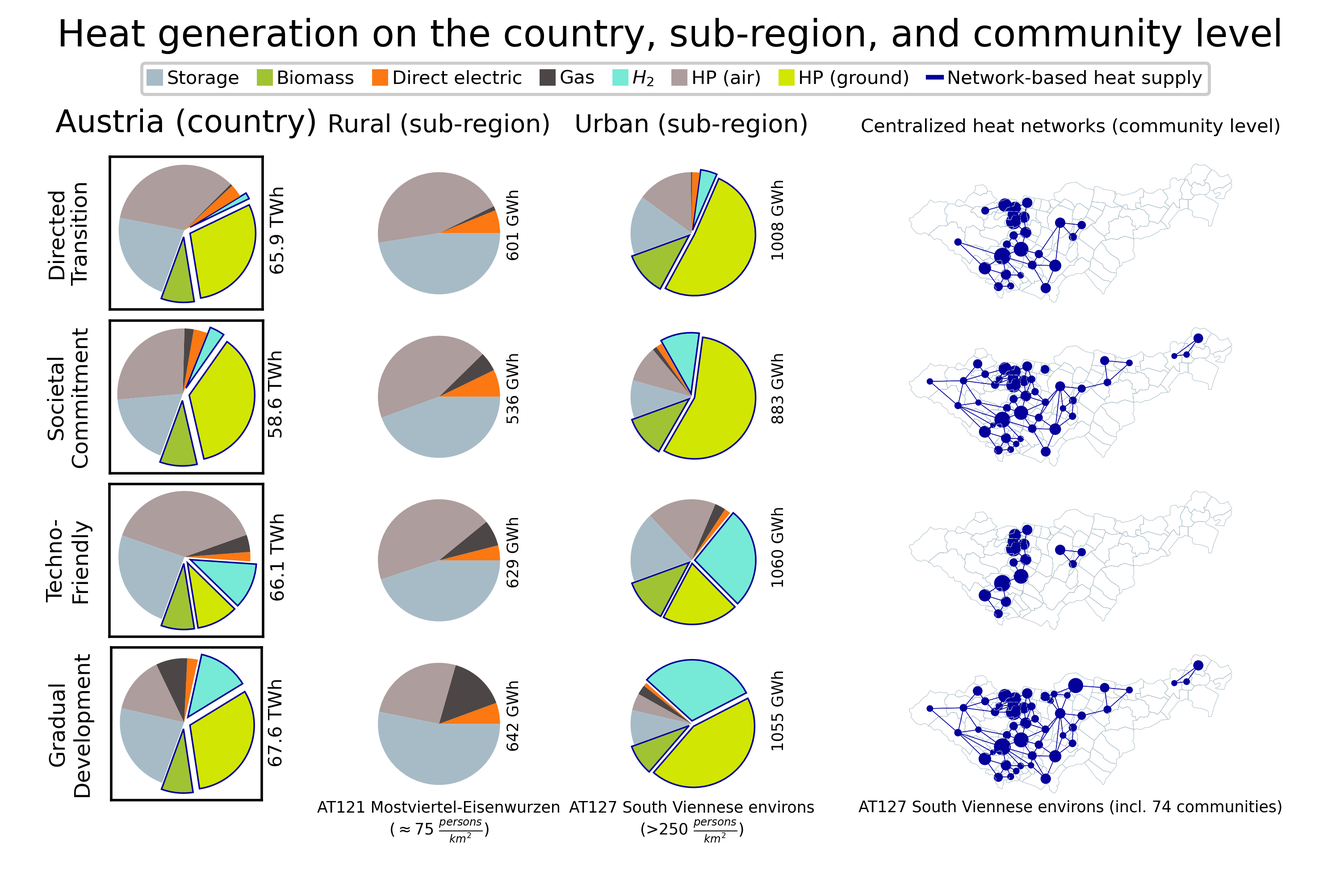
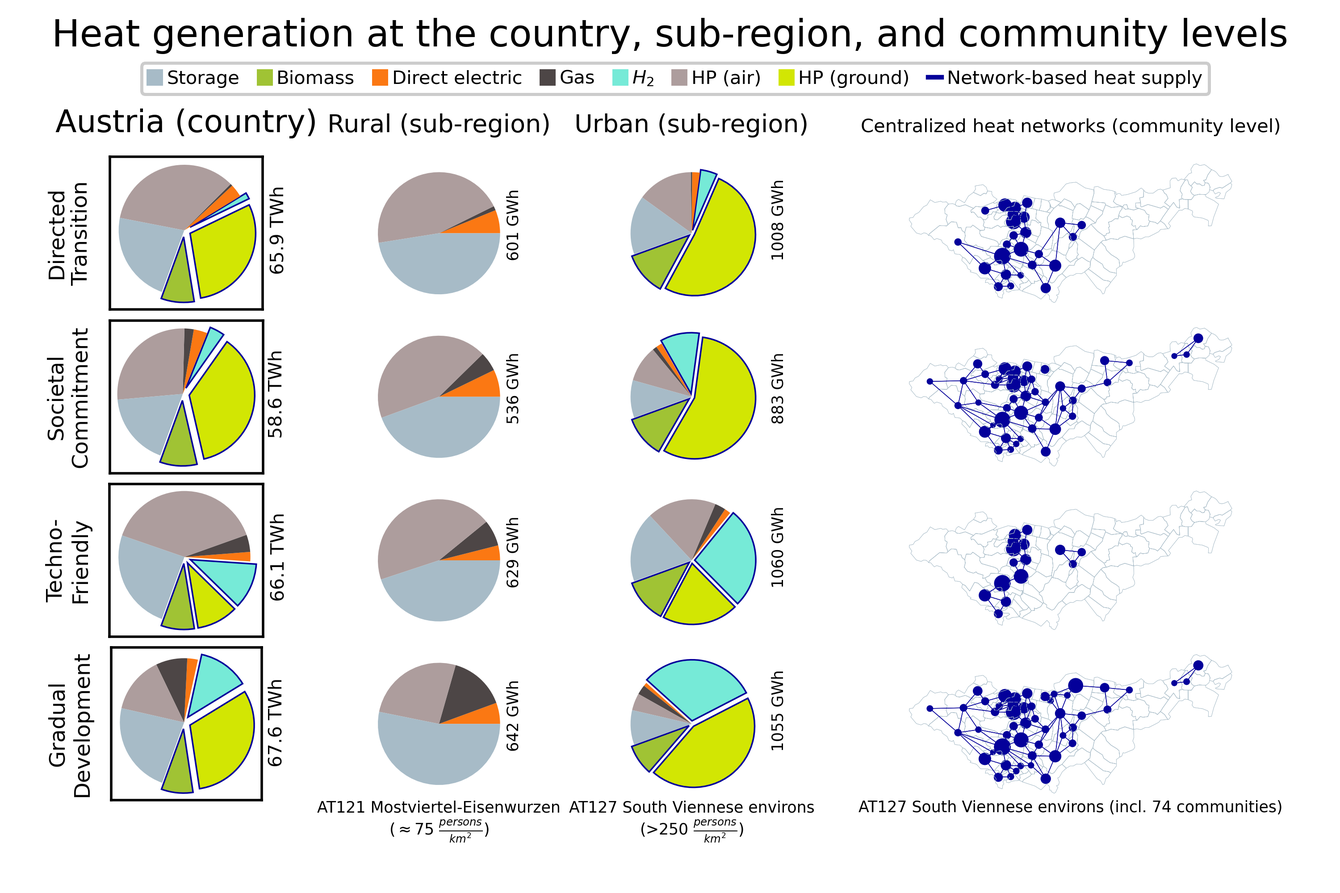
Update results section

Changed region(s): [[0.031, 0.0, 0.961, 0.062]]

diff --git a/Manuscript/4_Results.tex b/Manuscript/4_Results.tex
@@ -1,19 +1,19 @@
 \section{Results and discussion}\label{results}
-This section presents the results of the Austrian case study. Four different storylines are investigated, covering a wide range of possible future developments of the Austrian energy system in the context of European deep decarbonization. Section \ref{res:1} shows the heat generation mix supplying the heat demand (residential and commercial) on the country level. In Section \ref{res:2}, the obtained heat generation mix is described on more granular geographical scale, sub-regional and community level. Potentials of centralized heat network are presented further in Section \ref{res:3}. Section \ref{res:4} shows the centralized heat networks on the community level. Finally, Section \ref{res:5} compares the projected centralized heat networks in 2050 with today's networks based on heat density.
+This section presents the results of the Austrian case study. Four different storylines are investigated, covering a wide range of possible future developments of the Austrian energy system in the context of European deep decarbonization. Section \ref{res:1} shows the heat generation mix supplying the heat demand (residential and commercial) at the country level. Section \ref{res:2} describes the heat generation mix obtained on a more granular geographical scale, at sub-regional and community levels. Potentials of a centralized heat network are presented further in section \ref{res:3}. Section \ref{res:4} shows the centralized heat networks at the community level. Finally, section \ref{res:5} compares the projected centralized heat networks in 2050 with today's networks, based on heat density.
 
 \subsection{Heat supply of the Austrian residential and commercial sector in 2050: four different decarbonization scenarios obtained from the H2020 project openENTRANCE}\label{res:1}
-This section presents the heat generation mix covering the Austrian residential and commercial heat demand in 2050 for four different storylines, which have been developed within the H2020 openENTRANCE project. They are named as follows: \textit{Directed Transition}, \textit{Societal Commitment}, \textit{Techno-Friendly}, and \textit{Gradual Development}. Within each of them, specific fundamental development of the energy systems is described while aiming for a sustainable transition of the provision of energy services. The first three storylines consider the achievement of the \SI{1.5}{\degreeCelsius} global warming climate target. The latter storyline (\textit{Gradual Development}) can be interpreted as a more conservative storyline aiming for the less ambitious \SI{2.0}{\degreeCelsius} climate target. Below, the storylines are briefly described before the quantitative results on the country level are presented. For a more detailed description of the storylines, it is referred to \cite{auer2020quantitative} and \cite{auer2020development}. Further informations also are available on the website of the project \footnote{\url{https://openentrance.eu/}} and GitHub\footnote{\url{https://github.com/openENTRANCE}}.\vspace{0.3cm}
+This section presents the heat generation mix covering the Austrian residential and commercial heat demand in 2050 for four different storylines, which have been developed within the H2020 openENTRANCE project. They are named as follows: \textit{Directed Transition}, \textit{Societal Commitment}, \textit{Techno-Friendly}, and \textit{Gradual Development}. Within each of them, specific fundamental development of the energy systems is described while aiming for a sustainable transition of the provision of energy services. The first three storylines consider the achievement of the \SI{1.5}{\degreeCelsius} global warming climate target. The last storyline (\textit{Gradual Development}) can be interpreted as a more conservative storyline, aiming for the less ambitious \SI{2.0}{\degreeCelsius} climate target. Below, the storylines are described briefly, before the quantitative results at the country level are presented. For a more detailed description of the storylines, refer to \cite{auer2020quantitative} and \cite{auer2020development}. Further information is also available on the website of the project \footnote{\url{https://openentrance.eu/}} and GitHub\footnote{\url{https://github.com/openENTRANCE}}.\vspace{0.3cm}
 
-The underlying concept of the four storylines is a three-dimensional space spanned by the following parameters: technology, policy, and society. Each storyline describes a specific pathway to reach a decarbonized energy system taking into account a pronounced contribution of two dimensions. Regarding the third dimension, a development is assumed that leads to no significant contribution to the decarbonization of the energy system. 
+The underlying concept of the four storylines is a three-dimensional space consisting of the following parameters: technology, policy, and society. Each storyline describes a specific pathway to reach a decarbonized energy system taking into account a pronounced contribution of two dimensions. Regarding the third dimension, a development is assumed that leads to no significant contribution to the decarbonization of the energy system. 
 
 \begin{itemize}
-	\item \textit{Directed Transition} looks at a sustainable provision of energy services through strong policy incentives. This bundle of actions becomes necessary because neither the markets nor society adequately pushes sustainable energy technologies.
-	\item \textit{Societal Commitment} achieves deep decarbonization of the energy system by a strong societal acceptance of the sustainable energy transition. Thereby, decentralized renewable energy technologies together with policy incentives lead to a sustainable supply of energy service needs. Parallel, no fundamental breakthroughs of new clean technologies are within sight.
-	\item \textit{Techno-Friendly} describes a development of the energy system where a significant market-driven breakthrough of renewable energy technologies gives rise to the decarbonization of energy service supply. Alongside, society acceptance supports the penetration of clean energy technologies and the sustainable transition.
-	\item \textit{Gradual Development} differs from the other storylines as on the one hand, this storyline only aims for the less ambitious \SI{2.0}{\degreeCelsius} climate target, and on the other hand, a little of each possible sustainable development of the energy system is described here. While all three dimensions contribute to decarbonization, they do not push it sufficiently and result in a more conservative storyline than the others.
+	\item \textit{Directed Transition} looks at a sustainable provision of energy services through strong policy incentives. This bundle of actions becomes necessary because neither the markets nor the society adequately pushes sustainable energy technologies.
+	\item \textit{Societal Commitment} achieves deep decarbonization of the energy system by a strong societal acceptance of the sustainable energy transition. Thereby, decentralized renewable energy technologies together with policy incentives lead to a sustainable supply of energy service needs. In parallel, no fundamental breakthroughs of new clean technologies are within sight.
+	\item \textit{Techno-Friendly} describes a development of the energy system where a significant market-driven breakthrough of renewable energy technologies gives rise to the decarbonization of energy service supply. Additionally, society acceptance supports the penetration of clean energy technologies and the sustainable transition.
+	\item \textit{Gradual Development} differs from the other storylines as on the one hand, this storyline aims only for the less ambitious \SI{2.0}{\degreeCelsius} climate target, and on the other hand, a little of each possible sustainable development initiative of the energy system is described here. Although the other three dimensions contribute to decarbonization, they do not push it sufficiently and result in a more conservative storyline than the others.
 \end{itemize}
 
-Table \ref{tab:1} shows the heat generation by technology/source in Austria in 2050 for the four different storylines. These values were obtained in course of the H2020 project openENTRANCE and are the modeling results calculated using the open-source model GENeSYS-MODv2.0 \cite{burandt2018genesys}. According to the underlying assumptions in the storylines, the heat generation of the different sources/technologies vary in some cases significantly (e.g., hydrogen-based heat generation in \textit{Directed Transition} and \textit{Gradual Development} (\SI{7.62}{TWh}) or Heat pump (ground) generation in \textit{Techno-Friendly} and \textit{Societal Commitment} (\SI{14.78}{TWh})). The gray-colored column $\Sigma$ presents the total of heat generation using centralized heat networks, which varies between \SI{19.49}{} (\textit{Techno-Friendly}) and \SI{35.23}{TWh} (\textit{Gradual Development}).
+Table \ref{tab:1} shows the heat generation by technology/source in Austria in 2050 for the four different storylines. These values were obtained during the course of the H2020 project openENTRANCE and are the modeling results calculated using the open-source model GENeSYS-MODv2.0 \cite{burandt2018genesys}. According to the underlying assumptions in the storylines, the heat generation of the different sources/technologies varies significantly in some cases (e.g., hydrogen-based heat generation in \textit{Directed Transition} and \textit{Gradual Development} (\SI{7.62}{TWh}) or heat pump (ground) generation in \textit{Techno-Friendly} and \textit{Societal Commitment} (\SI{14.78}{TWh})). The gray-colored column $\Sigma$ presents the total heat generation using centralized heat networks, which varies between \SI{19.49}{TWh} (\textit{Techno-Friendly}) and \SI{35.23}{TWh} (\textit{Gradual Development}).
 
 \newcolumntype{R}[2]{%
 	>{\adjustbox{angle=#1,lap=\width-(#2)}\bgroup}%
@@ -38,12 +38,12 @@ Table \ref{tab:1} shows the heat generation by technology/source in Austria in 2
 		& Gradual Development & 5.37 & 1.81 & 5.35 & 9.68 & 21.21 & 15.57  & 8.65 & \cellcolor{Gray}35.23\\
 		\bottomrule
 	\end{tabular}}
-	\caption{Heat generation by source in TWh supplying the residential and commercial heat demand in Austria 2050 for the different scenarios. Values obtained from the H2020 project openENTRANCE and GENeSYS-MOD.}
+	\caption{Heat generation by source in TWh, supplying residential and commercial heat demands in Austria 2050 for the different scenarios. Values obtained from the H2020 project openENTRANCE and GENeSYS-MOD.}
 	\label{tab:1}
 \end{table}
 
 \subsection{Heat technology generation in 2050 on different spatial granularities}\label{res:2}
-Figure \ref{fig:res1} shows the heat generation per technology/source on different spatial granularities: the country (NUTS0), sub-region (NUTS3) and community (LAU) level (from left to right). The level of spatial details increases from the left to the right. In the middle, the residential and commercial heat supply in a representative rural and urban sub-region, respectively, is presented. The rural sub-region \textit{Mostviertel-Eisenwurzen} (NUTS3 code AT121) shows high shares of heat pumps (air sourced) and small-scale heat storage systems. In addition, synthetic gas and direct electric heating systems supply the heat demand. The urban sub-region \textit{South Viennese environs} (AT127) is mainly supplied by ground-sourced heat pumps, biomass, and hydrogen. Air-sourced heat pumps and again heat storage cover the remaining demand. Throughout the pie charts within the figure, shares of heat generation using centralized heat networks are indicated using blue-colored edges. On the very right, an example of the resulting centralized heat network on the community level for the four different scenarios is presented. Within the four subfigures presenting centralized heat networks (each for one storyline), the size of the points represents the amount of heat demand using centralized supply in a community. The comparably high heat demand in the \textit{Gradual Development} scenario results in an extensive centralized heat network infrastructure (see lower right subfigure in Figure \ref{fig:res1}). The other three centralized heat networks are characterized by fewer (less supplied small sub-regions) and smaller points (less supplied heat demand by the centralized heat network). Figure \ref{fig:res-comp} compares the heat generation by source between $2020$ (today) and $2050$ for the four different scenarios. The height of the bars shows the absolute differences by source between both years, whereby a negative difference indicates less heat generation by this source in 2050 of the \textit{Societal Commitment} scenario. This scenario is more prominently presented since this is the scenario with the lowest total heat demand (\SI{-18.15}{TWh}) compared to the others. In addition, the scenario with the lowest and highest difference respectively is marked for each heat source and the total demand. For instance, the highest decrease is seen in natural gas in the \textit{Directed Transition} scenario (\SI{-53.76}{TWh}).
+Figure \ref{fig:res1} shows the heat generation per technology/source on different spatial granularities: the country (NUTS0), sub-region (NUTS3), and community (LAU) levels (from left to right). The level of spatial details increases from the left to the right. In the middle, the residential and commercial heat supply in representative rural and urban sub-regions, respectively, is presented. The rural sub-region \textit{Mostviertel-Eisenwurzen} (NUTS3 code AT121) shows high shares of heat pumps (air sourced) and small-scale heat storage systems. In addition, synthetic gas and direct electric heating systems supply the heat demand. The urban sub-region \textit{South Viennese environs} (AT127) is mainly supplied by ground-sourced heat pumps, biomass, and hydrogen. Air-sourced heat pumps and, again, heat storage cover the remaining demand. Throughout the pie charts within the figure, shares of heat generation using centralized heat networks are indicated using blue edges. On the extreme right, an example of the resulting centralized heat network at the community level for the four different scenarios is presented. Within the four subfigures presenting centralized heat networks (each for one storyline), the size of the points represents the amount of heat demand using centralized supply in a community. The comparably high heat demand in the \textit{Gradual Development} scenario results in an extensive centralized heat network infrastructure (see lower right subfigure in Figure \ref{fig:res1}). The other three centralized heat networks are characterized by fewer (less supplied small sub-regions) and smaller points (less supplied heat demand by the centralized heat network). Figure \ref{fig:res-comp} compares the heat generation by source between $2020$ (today) and $2050$ for the four different scenarios. The height of the bars shows the absolute differences by source between both years, whereby a negative difference indicates less heat generation by this source in 2050 for the \textit{Societal Commitment} scenario. This scenario is more prominently presented as this scenario has the lowest total heat demand (\SI{-18.15}{TWh}). In addition, the scenarios with the lowest and highest differences, respectively, are marked for each heat source and the total demand. For instance, the highest decrease is seen in natural gas in the \textit{Directed Transition} scenario (\SI{-53.76}{TWh}).
 
 \begin{sidewaysfigure}
 	\centering
@@ -55,12 +55,12 @@ Figure \ref{fig:res1} shows the heat generation per technology/source on differe
 \begin{figure}
 	\centering
 	\includegraphics[width=1\linewidth]{figures/4_Results/Fig-Comp/Ref-2050.eps}
-	\caption{Comparison of heat generation by source between the reference year $2020$ (black line) and 2050 in Austria. The height of the bars shows the absolute increase/decrease $2050$ in the \textit{Societal Commitment} scenario. The scenario with the lowest and highest difference, respectively, is indicated by the markers.}
+	\caption{Comparison of heat generation by source between the reference year $2020$ (black line) and 2050 in Austria. The height of the bars shows the absolute increase/decrease in $2050$ in the \textit{Societal Commitment} scenario. The scenarios with the lowest and highest differences, respectively, are indicated by the markers.}
 	\label{fig:res-comp}
 \end{figure}
 
 \subsection{Sub-regions in Austria 2050 with high potentials for centralized heat supply}\label{res:3}
-The potentials of centralized heat supply in Austria in 2050 are limited to densely populated areas (urban areas). In particular, the results indicate eight different sub-regions (NUTS3 regions) that are supplied by centralized heat networks (see Figure \ref{fig:res2}). Although the exact numerical numbers differ, the eight sub-regions in each scenario are (partially) supplied by centralized heat networks. Table \ref{tab:3} shows the centralized and on-site (decentralized) heat supply in the sub-regions. Thereby, the connection rate is assessed by the share of centralized heat supply in the total heat demand. Note that the population density varies in these sub-regions between \SI{163}{persons \per \kilo\metre^2} (AT211 - Klagenfurt-Villach) and \SI{5124}{persons \per \kilo\metre^2} (AT130 - Vienna).
+The potentials for centralized heat supply in Austria in 2050 are limited to densely populated areas (urban areas). In particular, the results indicate eight different sub-regions (NUTS3 regions) that are supplied by centralized heat networks (see Figure \ref{fig:res2}). Although the exact numerical numbers differ, the eight sub-regions in each scenario are (partially) supplied by centralized heat networks. Table \ref{tab:3} shows the centralized and on-site (decentralized) heat supply in the sub-regions. Thereby, the connection rate is assessed by the share of centralized heat supply in the total heat demand. Note that the population density varies in these sub-regions between \SI{163}{persons \per \kilo\metre^2} (AT211 - Klagenfurt-Villach) and \SI{5124}{persons \per \kilo\metre^2} (AT130 - Vienna).
 
 \begin{table} \centering
 	\scalebox{0.9}{
@@ -114,8 +114,8 @@ The potentials of centralized heat supply in Austria in 2050 are limited to dens
 	\label{fig:res2}
 \end{sidewaysfigure}
 
-\subsection{Centralized heat network topology on the community level}\label{res:4}
-This section presents the centralized heat network topology of the sub-region \textit{South Viennese environs} (AT127) and all included communities. In Figure \ref{fig:res2}, this particular sub-region is marked by the orange box. Figure \ref{fig:res3} shows the projected centralized heat network topology. In particular, the network topology is presented for the initial condition (as result of the sequential downscaling, $i=1$) and in the final condition ($i=51$) of the network. The distribution of the benchmark indicator values of the centralized heat network depending on the number of iterations is presented in the middle. The mean value is marked in orange. The supply area decreases with an increasing number of iterations. In the final condition, 25 communities are connected (starting from 75 in the initial condition). The number of connected population decreases by \SI{38}{\%}, starting from a population of \SI{386}{k} being connected to centralized heating network in the initial condition. After the final iteration ($i=51$), the termination criterion is reached. Note that the iterative reduction of supplied small sub-regions does not necessarily result in one contiguous graph (see the network graph in the \textit{Gradual Development} scenario in Figure \ref{fig:res1}).
+\subsection{Centralized heat network topology at the community level}\label{res:4}
+This section presents the centralized heat network topology of the sub-region \textit{South Viennese environs} (AT127) and all included communities. In Figure \ref{fig:res2}, this particular sub-region is marked by the orange box. Figure \ref{fig:res3} shows the projected centralized heat network topology. In particular, the network topology is presented for the initial condition (as a result of the sequential downscaling, $i=1$) and the final condition ($i=51$) of the network. The distribution of the benchmark indicator values of the centralized heat network depending on the number of iterations is presented in the middle. The mean value is marked in orange. The supply area decreases with an increasing number of iterations. In the final condition, 25 communities are connected (starting from 75 in the initial condition). The number of connected population decreases by \SI{38}{\%}, starting from a population of \SI{386,000}{} being connected to the centralized heating network in the initial condition. After the final iteration ($i=51$), the termination criterion is reached. Note that the iterative reduction of small sub-regions supplied does not necessarily result in one contiguous graph (see the network graph in the \textit{Gradual Development} scenario in Figure \ref{fig:res1}).
 
 \begin{sidewaysfigure}
 	\centering
@@ -124,17 +124,17 @@ This section presents the centralized heat network topology of the sub-region \t
 	\label{fig:res3}
 \end{sidewaysfigure}
 
-\subsection{Comparison of 2050's and today's centralized heat networks using heat density as criterion}\label{res:5}
-In the following, the centralized heat network in \textit{Graz} (AT221) is investigated in detail. This area is selected since it provides representative results in terms of both the applied downscaling and achievable heat density benchmarks of centralized heat networks. Figure \ref{fig:res5} shows the heat density of the centralized heat network in the \textit{Techno-Friendly} scenario. 
+\subsection{Comparison of 2050's and today's centralized heat networks using heat density as a criteria}\label{res:5}
+In the following, the centralized heat network in \textit{Graz} (AT221) is investigated in detail. This area is selected as it provides representative results in terms of both the applied downscaling and achievable heat density benchmarks of centralized heat networks. Figure \ref{fig:res5} shows the heat density of the centralized heat network in the \textit{Techno-Friendly} scenario. 
 
 \begin{figure}[h]
 	\centering
 	\includegraphics[width=1\linewidth]{figures/4_Results/Fig_Heat-density/HD_cleaned1.eps}
-	\caption{Heat density of the centralized heat network in \textit{Graz} (AT221) 2050 in the \textit{Techno-Friendly} scenario. The gap of heat density between 2050's and today's heat density (black dashed line) is marked by the pink bar.}
+	\caption{Heat density of the centralized heat network in \textit{Graz} (AT221) 2050 in the \textit{Techno-Friendly} scenario. The gap of heat density between 2050s and today (black dashed line) is marked by the pink bar.}
 	\label{fig:res5}
 \end{figure}
 
-The x-axis shows the three different downscaling techniques. The numerical numbers indicate a significant increase of the heat density by the sequential (+\SI{0.69}{GWh \per km^2}) and, in particular, the iterative downscaling (+\SI{3.61}{GWh \per km^2}). However, comparing the obtained heat density value with heat density values of today's centralized heat networks reveals a signifcant gap (see the hatched pink bar). Here in the \textit{Techno-Friendly} scenario, it is \SI{4.53}{GWh \per km^2}. According to references from the practice (see, e.g., in \url{http://www.austrian-heatmap.gv.at/ergebnisse/}), the heat density of today's networks is assumed to be \SI{10}{\frac{GWh}{km^2}} with a connection rate of \SI{90}{\%}. The gap of heat density varies between the different scenarios. Figure \ref{fig:res4} shows the heat densities in the sub-regions and compares the results in the different scenarios. It shows the scenario with the lowest and the highest heat density. The bottom bar shows the value and scenario with the lowest heat density among the four different scenarios for each sub-region. The hatched bar indicates the increase of heat density and the corresponding scenario compared to the lowest value. In five sub-regions, the \textit{Techno-Friendly} scenario is the scenario with the lowest heat density. The \textit{Directed Transition} scenarios is the scenario with the highest heat density in four sub-regions. Note that Vienna (AT130) is not shown for the sake of clarity. The heat density there varies between \SI{15.1}{\frac{GWh}{km^2}} in the \textit{Techno-Friendly} and \SI{30.3}{\frac{GWh}{km^2}} in the \textit{Gradual Development} scenario.
+The x-axis shows the three different downscaling techniques. The numerical numbers indicate a significant increase of the heat density by the sequential (+\SI{0.69}{GWh \per km^2}) and, in particular, the iterative downscaling (+\SI{3.61}{GWh \per km^2}). However, comparing the heat density value obtained with the heat density values of today's centralized heat networks reveals a significant gap (see the hatched pink bar). Here, in the \textit{Techno-Friendly} scenario, it is \SI{4.53}{GWh \per km^2}. According to references from the practice (see, e.g., in \url{http://www.austrian-heatmap.gv.at/ergebnisse/}), the heat density of today's networks is assumed to be \SI{10}{\frac{GWh}{km^2}} with a connection rate of \SI{90}{\%}. The gap of heat density varies between the different scenarios. Figure \ref{fig:res4} shows the heat densities in the sub-regions and compares the results in the different scenarios. It shows the scenarios with the lowest and highest heat densities. The bottom bar shows the value and scenario with the lowest heat density among the four different scenarios for each sub-region. The hatched bar indicates the increase of heat density and the corresponding scenario compared to the lowest value. In five sub-regions, the \textit{Techno-Friendly} scenario is the scenario with the lowest heat density. The \textit{Directed Transition} scenario is the scenario with the highest heat density in four sub-regions. Note that Vienna (AT130) is not shown for the sake of clarity. The heat density there varies between \SI{15.1}{\frac{GWh}{km^2}} in the \textit{Techno-Friendly} and \SI{30.3}{\frac{GWh}{km^2}} in the \textit{Gradual Development} scenario.
  
 \begin{figure}[h]
 	\centering

diff --git a/Manuscript/Figures/4_Results/Fig_Matrix-plot/Matrix_plot.py b/Manuscript/Figures/4_Results/Fig_Matrix-plot/Matrix_plot.py
@@ -386,7 +386,7 @@ _new_lines.plot(ax=fig_genesys_GD_LAU, color=_str, linewidth=0.2)
 
 
 
-fig.suptitle("Heat generation on the country, sub-region, and community level")
+fig.suptitle("Heat generation at the country, sub-region, and community levels")
 plt.tight_layout(h_pad=0)
 fig_genesys_DT_AT.legend(handles=_patches, loc='upper center', fontsize=6, framealpha=1, handlelength=0.7, handletextpad=0.3, ncol=9, bbox_to_anchor=(3.7, 1.675), borderpad=0.35, columnspacing=1)
 
